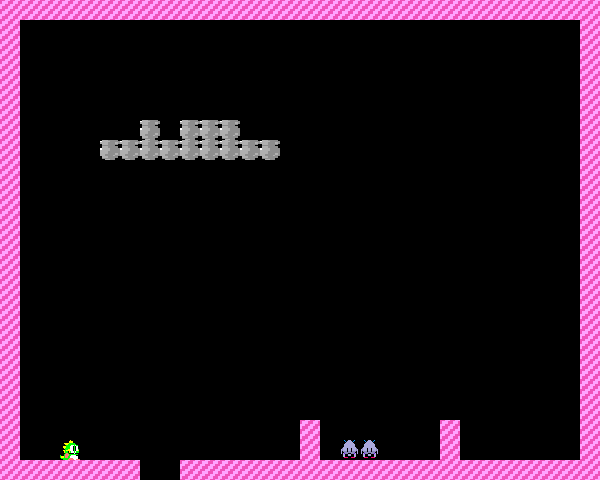
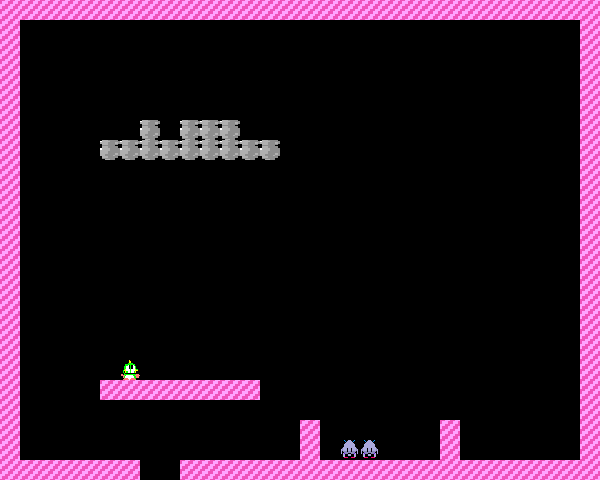
Modify MovingEntity, Player, LevelPanel, AnimationLoader
Ora il player può essere stunnato

Changed region(s): [[0.15, 0.75, 0.45, 0.8438], [0.09, 0.9062, 0.15, 0.9688]]

diff --git a/JBubbleBobble/src/game/view/LevelPanel.java b/JBubbleBobble/src/game/view/LevelPanel.java
@@ -11,8 +11,10 @@ import java.awt.image.BufferedImage;
 import javax.swing.JPanel;
 
 import game.model.entities.Entity;
+import game.model.entities.MovingEntity.Direction;
 import game.model.entities.Player;
 import game.model.HelpMethods;
+import game.model.bubbles.BubbleManager;
 import game.model.bubbles.PlayerBubble;
 import game.model.bubbles.WaterBubble;
 import game.model.bubbles.special_effects.Water;
@@ -73,7 +75,21 @@ public class LevelPanel extends JPanel {
 		super.paintComponent(g2d);
 
 		g2d.drawImage(tilesImage, 0, 0, this);
+		renderPlayer(View.getInstance().getLevel().getPlayer(), g2d);
 		View.getInstance(gameFrame).getLevel().getEntities().forEach(e -> renderEntity(e, g2d));
+	}
+
+	public void renderPlayer(Player player, Graphics g) {
+		Image playerImg = null;
+		if (player.isStunned())
+			playerImg = player.getDirection() == Direction.LEFT ? AnimationLoader.getPlayerImage("stun_left")
+					: AnimationLoader.getPlayerImage("stun_right");
+		else {
+			playerImg = player.getDirection() == Direction.STATIC ? Images.getImage(Player.CODE, "static")
+					: AnimationLoader.getPlayerImage("walk_" + player.getDirection().name().toLowerCase());
+		}
+		g.drawImage(playerImg, (int) player.getX(), (int) player.getY(), (int) player.getWidth() + 1,
+				(int) player.getHeight() + 1, null);
 	}
 
 	public void renderEntity(Entity entity, Graphics g) {
@@ -81,16 +97,11 @@ public class LevelPanel extends JPanel {
 		img = switch (entity) {
 		case Tile tile -> Images.getImage(tile.getCode());
 		case Laser laser -> Images.getImage(Laser.CODE);
-		case Enemy enemy -> AnimationLoader.loadEnemyImage(enemy.getCode(), enemy.getDirection(), enemy.getColorState());
+		case Enemy enemy ->
+			AnimationLoader.loadEnemyImage(enemy.getCode(), enemy.getDirection(), enemy.getColorState());
 		case OrangeParasol orangeParasol -> Images.getImage(Parasol.CODE, "orange");
 		case RedParasol redParasol -> Images.getImage(Parasol.CODE, "red");
 		case PurpleParasol purpleParasol -> Images.getImage(Parasol.CODE, "purple");
-		case Player player -> switch (player.getDirection()) {
-		case RIGHT -> AnimationLoader.getPlayerImage("walk_right");
-		case LEFT -> AnimationLoader.getPlayerImage("walk_left");
-		case STATIC -> Images.getImage(Player.CODE, "static");
-		default -> throw new IllegalArgumentException("Unexpected value: " + player.getDirection());
-		};
 		case PlayerBubble playerBubble -> {
 			if (playerBubble.getLifeSpan() <= 500) {
 				yield AnimationLoader.loadBubblePoppingImage();

diff --git a/JBubbleBobble/src/game/model/entities/Player.java b/JBubbleBobble/src/game/model/entities/Player.java
@@ -43,7 +43,6 @@ public class Player extends MovingEntity {
 	private boolean crystalRingActive;
 	private boolean amethystRingActive;
 
-
 	/**
 	 * Returns the singleton instance of the {@code Player} class.
 	 *
@@ -118,7 +117,7 @@ public class Player extends MovingEntity {
 	public boolean isCrystalRingActive() {
 		return crystalRingActive;
 	}
-	
+
 	/**
 	 * Sets the player's movement direction and adjusts the bubble shooting
 	 * direction accordingly.
@@ -192,6 +191,7 @@ public class Player extends MovingEntity {
 	public void setCrystalRingActive(boolean crystalRingActive) {
 		this.crystalRingActive = crystalRingActive;
 	}
+
 	/**
 	 * Increases the player's firing rate by decreasing the time between shots.
 	 *
@@ -219,7 +219,7 @@ public class Player extends MovingEntity {
 		inAir = true;
 		airSpeed = jumpSpeed;
 		Model.getInstance().getCurrentLevel().getPowerupManager().increaseNumberOfJumps();
-		if (amethystRingActive) 
+		if (amethystRingActive)
 			Model.getInstance().getCurrentUser().addPoints(AmethystRing.POINTS);
 	}
 
@@ -229,8 +229,7 @@ public class Player extends MovingEntity {
 	public void looseLife() {
 		lives--;
 	}
-	
-	
+
 	public void heal() {
 		lives = NUMBER_OF_LIVES;
 	}
@@ -256,7 +255,6 @@ public class Player extends MovingEntity {
 	 * current direction if not obstructed by a wall, and shooting is temporarily
 	 * disabled after each shot.
 	 */
-	
 
 	public void shootBubble() {
 		// Checks if the player can shoot.
@@ -283,6 +281,7 @@ public class Player extends MovingEntity {
 			}, ATTACK_INTERVAL * attackSpeed); // Sets the timer based on the attack speed.
 		}
 	}
+
 	/**
 	 * Updates the player's state each game tick. This includes checking for
 	 * collisions with bubbles, handling jumping, popping bubbles, updating
@@ -290,9 +289,11 @@ public class Player extends MovingEntity {
 	 */
 	@Override
 	public void updateEntity() {
-		updateXPos();
-		updateYPos();
-		gravity();
+		if (!isStunned()) {
+			updateXPos();
+		}
+			updateYPos();
+			gravity();
 	}
 
 	public boolean isInvulnerable() {

diff --git a/JBubbleBobble/src/game/model/level/Level.java b/JBubbleBobble/src/game/model/level/Level.java
@@ -85,7 +85,7 @@ public class Level {
 
 	public List<Entity> getEntities() {
 		List<Entity> entities = new ArrayList<Entity>();
-		entities.add(player);
+//		entities.add(player);
 		entities.addAll(bubbleManager.getBubbles());
 		entities.addAll(bubbleManager.getPlayerBubbles());
 		entities.addAll(bubbleManager.getFireBalls());
@@ -187,7 +187,7 @@ public class Level {
 						if (!b.hasEnemy()) {
 							if (player.isShooting())
 								b.pop();
-							else if (b.getLifeSpan()>500)
+							else if (b.getLifeSpan() > 500)
 								b.setEnemy(e);
 							enemyManager.removeEnemy(e);
 						}
@@ -213,7 +213,7 @@ public class Level {
 
 		for (int attempt = 0; attempt < MAX_ATTEMPTS; attempt++) {
 			// Verifica se la posizione è valida per generare il powerup
-			if (lvlData[y][x] == ' ' && Character.isDigit(lvlData[y + 1][x]) 
+			if (lvlData[y][x] == ' ' && Character.isDigit(lvlData[y + 1][x])
 					&& !powerupManager.isTherePowerup(x * Tile.TILE_SIZE, y * Tile.TILE_SIZE)) {
 				powerup.setPosition(x * Tile.TILE_SIZE, y * Tile.TILE_SIZE);
 				powerupManager.addPowerup(powerup);
@@ -299,6 +299,10 @@ public class Level {
 		if (enemyHit.isPresent()) {
 			enemyHit.get().stun(10);
 		}
+		Optional<FireBall> playerHit = Entity.checkCollision(player, burningFireBalls);
+		if (playerHit.isPresent()) {
+			player.stun(5);
+		}
 	}
 
 	private void checkAllCollisions() {
@@ -311,7 +315,7 @@ public class Level {
 	}
 
 	public void updateLevel() {
-		System.out.println("Player lives: "+player.getLives());
+//		System.out.println("Player lives: " + player.getLives());
 		player.updateEntity();
 		enemyManager.updateEnemies();
 		bubbleManager.updateBubbles();

diff --git a/JBubbleBobble/src/game/model/entities/MovingEntity.java b/JBubbleBobble/src/game/model/entities/MovingEntity.java
@@ -22,7 +22,7 @@ public abstract class MovingEntity extends Entity {
 		LEFT, RIGHT, STATIC
 	}
 
-	
+	private Timer stunTimer;
 
 	// Direction of movement
 	protected Direction direction;
@@ -116,6 +116,13 @@ public abstract class MovingEntity extends Entity {
 		return direction;
 	}
 
+	/**
+	 * 
+	 * @return
+	 */
+	public boolean isStunned() {
+		return isStunned;
+	}
 
 	/**
 	 * Sets the speed of the entity along the x-axis.
@@ -150,26 +157,25 @@ public abstract class MovingEntity extends Entity {
 	 * @param direction The new movement direction of the entity.
 	 */
 	public void setDirection(Direction direction) {
-		this.direction = direction;
+			this.direction = direction;
 	}
 
-	
-
 	public void stun(int stunTime) {
-		float prevXSpeed = xSpeed;
-		float prevAirSpeed = airSpeed;
-		setxSpeed(0);
-		setAirSpeed(0);
-		isStunned = true;
-		new Timer("Stun Timer").schedule(new TimerTask() {
-			@Override
-			public void run() {
-				isStunned = false;
-				setxSpeed(prevXSpeed);
-				setAirSpeed(prevAirSpeed);
-				this.cancel();
-			}
-		}, stunTime * 1000);
+		if (stunTimer == null) {
+			System.out.println("stunned");
+			setxSpeed(0);
+			setAirSpeed(0);
+			isStunned = true;
+			stunTimer = new Timer("Stun Timer");
+			stunTimer.schedule(new TimerTask() {
+				@Override
+				public void run() {
+					isStunned = false;
+					this.cancel();
+					stunTimer = null;
+				}
+			}, stunTime * 1000);
+		}
 	}
 
 	/**

diff --git a/JBubbleBobble/src/game/controller/gamestates/Playing.java b/JBubbleBobble/src/game/controller/gamestates/Playing.java
@@ -69,19 +69,24 @@ public class Playing extends State implements Statemethods {
 
 		switch (e.getKeyCode()) {
 		case KeyEvent.VK_W:
-			Model.getInstance().getCurrentLevel().getPlayer().setJumping(true);
+			if (!Model.getInstance().getCurrentLevel().getPlayer().isStunned())
+				Model.getInstance().getCurrentLevel().getPlayer().setJumping(true);
 			break;
 		case KeyEvent.VK_A:
-			Model.getInstance().getCurrentLevel().getPlayer().setDirection(Direction.LEFT);
-			Model.getInstance().getCurrentLevel().getPlayer().move(0.7f);
-
+			if (!Model.getInstance().getCurrentLevel().getPlayer().isStunned()) {
+				Model.getInstance().getCurrentLevel().getPlayer().setDirection(Direction.LEFT);
+				Model.getInstance().getCurrentLevel().getPlayer().move(0.7f);
+			}
 			break;
 		case KeyEvent.VK_D:
-			Model.getInstance().getCurrentLevel().getPlayer().setDirection(Direction.RIGHT);
-			Model.getInstance().getCurrentLevel().getPlayer().move(0.7f);
+			if (!Model.getInstance().getCurrentLevel().getPlayer().isStunned()) {
+				Model.getInstance().getCurrentLevel().getPlayer().setDirection(Direction.RIGHT);
+				Model.getInstance().getCurrentLevel().getPlayer().move(0.7f);
+			}
 			break;
 		case KeyEvent.VK_SPACE:
-			Model.getInstance().getCurrentLevel().getPlayer().shootBubble();
+			if (!Model.getInstance().getCurrentLevel().getPlayer().isStunned())
+				Model.getInstance().getCurrentLevel().getPlayer().shootBubble();
 		}
 
 	}

diff --git a/JBubbleBobble/src/game/view/AnimationLoader.java b/JBubbleBobble/src/game/view/AnimationLoader.java
@@ -19,14 +19,16 @@ public class AnimationLoader {
 	// Percorsi delle animazioni del player
 	private static final String PLAYER_WALK_LEFT = "player/left_walk.gif";
 	private static final String PLAYER_WALK_RIGHT = "player/right_walk.gif";
-//	private static final String PLAYER_JUMP = "player/jump.gif";
+	private static final String PLAYER_STUN_LEFT = "player/stun_left.gif";
+	private static final String PLAYER_STUN_RIGHT = "player/stun_right.gif";
 	// Aggiungi altri percorsi delle animazioni del player qui
 
 	static {
 		// Carica le animazioni del player staticamente
 		playerAnimations.put("walk_left", loadImageIcon(PLAYER_WALK_LEFT));
 		playerAnimations.put("walk_right", loadImageIcon(PLAYER_WALK_RIGHT));
-//		playerAnimations.put("jump", loadImageIcon(PLAYER_JUMP));
+		playerAnimations.put("stun_left", loadImageIcon(PLAYER_STUN_LEFT));
+		playerAnimations.put("stun_right", loadImageIcon(PLAYER_STUN_RIGHT));
 		// Carica altre animazioni del player
 	}
 

diff --git a/JBubbleBobble/src/game/model/bubbles/BubbleManager.java b/JBubbleBobble/src/game/model/bubbles/BubbleManager.java
@@ -45,6 +45,7 @@ public class BubbleManager {
 		int bubbleCase = new Random().nextInt(5000);
 		if (!doOnce && bubbleCase < 4) {
 			doOnce = true;
+			Model.getInstance().getCurrentLevel().spawnBubble(new FireBubble());
 			Bubble specialBubble;
 			switch (bubbleCase) {
 			case 0 -> specialBubble = new FireBubble();
